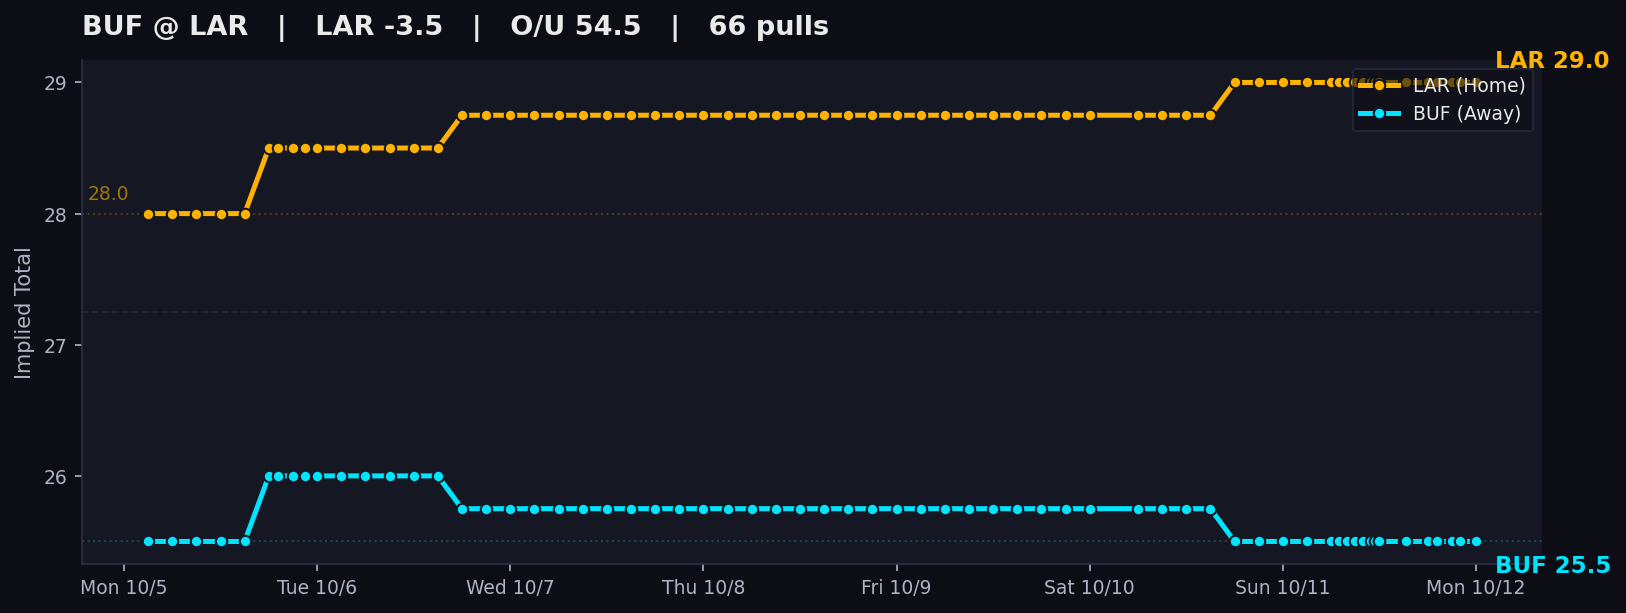
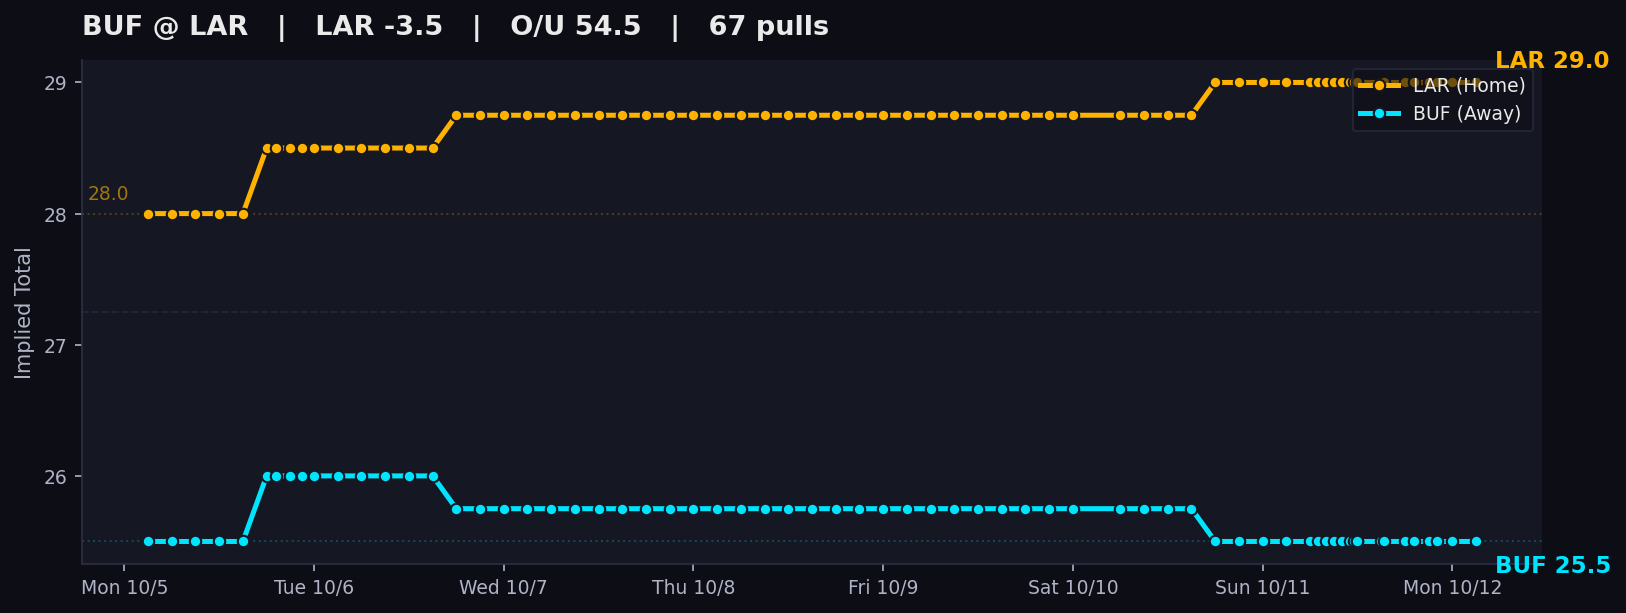
auto: local tracker sync

diff --git a/charts/index.html b/charts/index.html
@@ -311,7 +311,7 @@
     </div>
     <p class='sub'>
       DraftKings main lines &middot; Pinnacle cross-check &middot; Updated by the local Mac tracker<br>
-      Page rendered Mon Oct 12, 2026 12:00 AM CDT &middot; 1080 valid chart dots &middot; 1181 total pull attempts
+      Page rendered Mon Oct 12, 2026 3:00 AM CDT &middot; 1081 valid chart dots &middot; 1182 total pull attempts
       <span class='legend-box'>
         <span class='dot-teal'>● Away implied total</span>
         <span class='dot-amber'>● Home implied total</span>
@@ -324,9 +324,9 @@
     </details>
   </header>
 
-  <div id='feed-banner' class='alert-banner healthy' data-banner-kind='healthy' data-feed-ts='2026-10-12T05:00:01.580580+00:00' data-feed-ts-label='Mon Oct 12, 12:00 AM CDT'>
+  <div id='feed-banner' class='alert-banner healthy' data-banner-kind='healthy' data-feed-ts='2026-10-12T08:00:01.472347+00:00' data-feed-ts-label='Mon Oct 12, 3:00 AM CDT'>
             <span class='status-dot'></span>
-            <b>Feed Healthy:</b> All 1 open markets updated. 14 games have started and is showing its final verified pregame line. Board age based on oldest open market: <span id='feed-time'>Mon Oct 12, 12:00 AM CDT</span> (<span id='feed-age-dynamic'>just now</span>).
+            <b>Feed Healthy:</b> All 1 open markets updated. 14 games have started and is showing its final verified pregame line. Board age based on oldest open market: <span id='feed-time'>Mon Oct 12, 3:00 AM CDT</span> (<span id='feed-age-dynamic'>just now</span>).
         </div>
 
   <nav class='filter-bar' aria-label='Filter games by slate'>
@@ -396,7 +396,7 @@
                 <div><span>Last valid pull</span><strong>Thu 6:00 PM CT</strong></div>
                 <div><span>Chart dots</span><strong>69</strong></div>
             </div>
-                    <img class='expanded-chart' src='TB_DAL.png?v=1791781217' alt='TB at DAL line movement chart'>
+                    <img class='expanded-chart' src='TB_DAL.png?v=1791792018' alt='TB at DAL line movement chart'>
                     <p class='movement-note'>Total 47.5 → 49.5</p>
                 </div>
             </td>
@@ -437,7 +437,7 @@
                 <div><span>Last valid pull</span><strong>Sun 8:00 AM CT</strong></div>
                 <div><span>Chart dots</span><strong>71</strong></div>
             </div>
-                    <img class='expanded-chart' src='PHI_JAX.png?v=1791781217' alt='PHI at JAX line movement chart'>
+                    <img class='expanded-chart' src='PHI_JAX.png?v=1791792018' alt='PHI at JAX line movement chart'>
                     <p class='movement-note'>Spread JAX -3.0 → -7.5; Total 44.5 → 41.5</p>
                 </div>
             </td>
@@ -478,7 +478,7 @@
                 <div><span>Last valid pull</span><strong>Sun 12:00 PM CT</strong></div>
                 <div><span>Chart dots</span><strong>75</strong></div>
             </div>
-                    <img class='expanded-chart' src='CHI_GB.png?v=1791781217' alt='CHI at GB line movement chart'>
+                    <img class='expanded-chart' src='CHI_GB.png?v=1791792018' alt='CHI at GB line movement chart'>
                     <p class='movement-note'>Spread CHI +2.5 → -1.5; Total 45.5 → 46.5</p>
                 </div>
             </td>
@@ -513,7 +513,7 @@
                 <div><span>Last valid pull</span><strong>Sun 12:00 PM CT</strong></div>
                 <div><span>Chart dots</span><strong>64</strong></div>
             </div>
-                    <img class='expanded-chart' src='IND_PIT.png?v=1791781217' alt='IND at PIT line movement chart'>
+                    <img class='expanded-chart' src='IND_PIT.png?v=1791792018' alt='IND at PIT line movement chart'>
                     <p class='movement-note'>Spread PIT -2.5 → -3.0; Total 44.5 → 41.5</p>
                 </div>
             </td>
@@ -548,7 +548,7 @@
                 <div><span>Last valid pull</span><strong>Sun 12:00 PM CT</strong></div>
                 <div><span>Chart dots</span><strong>73</strong></div>
             </div>
-                    <img class='expanded-chart' src='MIN_NO.png?v=1791781217' alt='MIN at NO line movement chart'>
+                    <img class='expanded-chart' src='MIN_NO.png?v=1791792018' alt='MIN at NO line movement chart'>
                     <p class='movement-note'>Total 44.5 → 41.5</p>
                 </div>
             </td>
@@ -583,7 +583,7 @@
                 <div><span>Last valid pull</span><strong>Sun 12:00 PM CT</strong></div>
                 <div><span>Chart dots</span><strong>68</strong></div>
             </div>
-                    <img class='expanded-chart' src='NYG_WAS.png?v=1791781217' alt='NYG at WAS line movement chart'>
+                    <img class='expanded-chart' src='NYG_WAS.png?v=1791792018' alt='NYG at WAS line movement chart'>
                     <p class='movement-note'>Spread WAS -2.5 → -3.5; Total 43.5 → 41.5</p>
                 </div>
             </td>
@@ -618,7 +618,7 @@
                 <div><span>Last valid pull</span><strong>Sun 12:00 PM CT</strong></div>
                 <div><span>Chart dots</span><strong>75</strong></div>
             </div>
-                    <img class='expanded-chart' src='CIN_MIA.png?v=1791781217' alt='CIN at MIA line movement chart'>
+                    <img class='expanded-chart' src='CIN_MIA.png?v=1791792018' alt='CIN at MIA line movement chart'>
                     <p class='movement-note'>Spread CIN -8.5 → -7.0; Total 46.5 → 44.5</p>
                 </div>
             </td>
@@ -653,7 +653,7 @@
                 <div><span>Last valid pull</span><strong>Sun 12:00 PM CT</strong></div>
                 <div><span>Chart dots</span><strong>75</strong></div>
             </div>
-                    <img class='expanded-chart' src='HOU_TEN.png?v=1791781217' alt='HOU at TEN line movement chart'>
+                    <img class='expanded-chart' src='HOU_TEN.png?v=1791792018' alt='HOU at TEN line movement chart'>
                     <p class='movement-note'>Total 39.5 → 37.5</p>
                 </div>
             </td>
@@ -688,7 +688,7 @@
                 <div><span>Last valid pull</span><strong>Sun 12:00 PM CT</strong></div>
                 <div><span>Chart dots</span><strong>64</strong></div>
             </div>
-                    <img class='expanded-chart' src='CLE_NYJ.png?v=1791781217' alt='CLE at NYJ line movement chart'>
+                    <img class='expanded-chart' src='CLE_NYJ.png?v=1791792018' alt='CLE at NYJ line movement chart'>
                     <p class='movement-note'>Spread NYJ -1.5 → -2.5; Total 39.5 → 38.5</p>
                 </div>
             </td>
@@ -723,7 +723,7 @@
                 <div><span>Last valid pull</span><strong>Sun 12:00 PM CT</strong></div>
                 <div><span>Chart dots</span><strong>75</strong></div>
             </div>
-                    <img class='expanded-chart' src='LVR_NE.png?v=1791781217' alt='LVR at NE line movement chart'>
+                    <img class='expanded-chart' src='LVR_NE.png?v=1791792018' alt='LVR at NE line movement chart'>
                     <p class='movement-note'>Total 44.5 → 45.5</p>
                 </div>
             </td>
@@ -764,7 +764,7 @@
                 <div><span>Last valid pull</span><strong>Sun 3:20 PM CT</strong></div>
                 <div><span>Chart dots</span><strong>77</strong></div>
             </div>
-                    <img class='expanded-chart' src='DET_ARI.png?v=1791781217' alt='DET at ARI line movement chart'>
+                    <img class='expanded-chart' src='DET_ARI.png?v=1791792018' alt='DET at ARI line movement chart'>
                     <p class='movement-note'>Total 52.5 → 55.5</p>
                 </div>
             </td>
@@ -799,7 +799,7 @@
                 <div><span>Last valid pull</span><strong>Sun 3:20 PM CT</strong></div>
                 <div><span>Chart dots</span><strong>79</strong></div>
             </div>
-                    <img class='expanded-chart' src='SF_SEA.png?v=1791781217' alt='SF at SEA line movement chart'>
+                    <img class='expanded-chart' src='SF_SEA.png?v=1791792018' alt='SF at SEA line movement chart'>
                     <p class='movement-note'>Total 47.5 → 45.5</p>
                 </div>
             </td>
@@ -834,7 +834,7 @@
                 <div><span>Last valid pull</span><strong>Sun 3:00 PM CT</strong></div>
                 <div><span>Chart dots</span><strong>73</strong></div>
             </div>
-                    <img class='expanded-chart' src='DEN_LAC.png?v=1791781217' alt='DEN at LAC line movement chart'>
+                    <img class='expanded-chart' src='DEN_LAC.png?v=1791792018' alt='DEN at LAC line movement chart'>
                     <p class='movement-note'>Spread DEN -2.5 → -3.5; Total 43.5 → 42.5</p>
                 </div>
             </td>
@@ -875,7 +875,7 @@
                 <div><span>Last valid pull</span><strong>Sun 7:10 PM CT</strong></div>
                 <div><span>Chart dots</span><strong>76</strong></div>
             </div>
-                    <img class='expanded-chart' src='BAL_ATL.png?v=1791781217' alt='BAL at ATL line movement chart'>
+                    <img class='expanded-chart' src='BAL_ATL.png?v=1791792018' alt='BAL at ATL line movement chart'>
                     <p class='movement-note'>Spread ATL +6.0 → -3.5; Total 49.5 → 43.5</p>
                 </div>
             </td>
@@ -896,8 +896,8 @@
             <td class='it-away'>BUF 25.5</td>
             <td class='it-home'>LAR 29.0</td>
             <td class='reason' title='Spread LAR -2.5 → -3.5; Total 53.5 → 54.5'>Spread LAR -2.5 → -3.5; Total 53.5 → 54.5</td>
-            <td style='text-align:center;'><span class='pill-fresh'>12:00 AM CT</span></td>
-            <td class='snaps'>66</td>
+            <td style='text-align:center;'><span class='pill-fresh'>3:00 AM CT</span></td>
+            <td class='snaps'>67</td>
         </tr>
         <tr id='desktop-panel-BUF_LAR' class='chart-detail-row' data-slate='MNF' data-game-panel='BUF_LAR' hidden>
             <td colspan='12'>
@@ -913,10 +913,10 @@
                 <div><span>Current total</span><strong>54.5</strong></div>
                 <div><span>Away implied</span><strong class='it-away'>BUF 25.5</strong></div>
                 <div><span>Home implied</span><strong class='it-home'>LAR 29.0</strong></div>
-                <div><span>Last valid pull</span><strong>12:00 AM CT</strong></div>
-                <div><span>Chart dots</span><strong>66</strong></div>
+                <div><span>Last valid pull</span><strong>3:00 AM CT</strong></div>
+                <div><span>Chart dots</span><strong>67</strong></div>
             </div>
-                    <img class='expanded-chart' src='BUF_LAR.png?v=1791781217' alt='BUF at LAR line movement chart'>
+                    <img class='expanded-chart' src='BUF_LAR.png?v=1791792018' alt='BUF at LAR line movement chart'>
                     <p class='movement-note'>Spread LAR -2.5 → -3.5; Total 53.5 → 54.5</p>
                 </div>
             </td>
@@ -951,7 +951,7 @@
                 <div><span>Last valid pull</span><strong>Thu 6:00 PM CT</strong></div>
                 <div><span>Chart dots</span><strong>69</strong></div>
             </div>
-                <img class='expanded-chart' src='TB_DAL.png?v=1791781217' alt='TB at DAL line movement chart'>
+                <img class='expanded-chart' src='TB_DAL.png?v=1791792018' alt='TB at DAL line movement chart'>
                 <p class='pull-note'><span class='pull-dot'></span> Every dot is a valid completed pull · 69 chart dots</p>
             </div>
         </article><article class='mobile-game-card closed-game' data-slate='OTHER_PRIMETIME' data-game='PHI_JAX'>
@@ -978,7 +978,7 @@
                 <div><span>Last valid pull</span><strong>Sun 8:00 AM CT</strong></div>
                 <div><span>Chart dots</span><strong>71</strong></div>
             </div>
-                <img class='expanded-chart' src='PHI_JAX.png?v=1791781217' alt='PHI at JAX line movement chart'>
+                <img class='expanded-chart' src='PHI_JAX.png?v=1791792018' alt='PHI at JAX line movement chart'>
                 <p class='pull-note'><span class='pull-dot'></span> Every dot is a valid completed pull · 71 chart dots</p>
             </div>
         </article><article class='mobile-game-card closed-game' data-slate='SUN_EARLY' data-game='CHI_GB'>
@@ -1005,7 +1005,7 @@
                 <div><span>Last valid pull</span><strong>Sun 12:00 PM CT</strong></div>
                 <div><span>Chart dots</span><strong>75</strong></div>
             </div>
-                <img class='expanded-chart' src='CHI_GB.png?v=1791781217' alt='CHI at GB line movement chart'>
+                <img class='expanded-chart' src='CHI_GB.png?v=1791792018' alt='CHI at GB line movement chart'>
                 <p class='pull-note'><span class='pull-dot'></span> Every dot is a valid completed pull · 75 chart dots</p>
             </div>
         </article><article class='mobile-game-card closed-game' data-slate='SUN_EARLY' data-game='IND_PIT'>
@@ -1032,7 +1032,7 @@
                 <div><span>Last valid pull</span><strong>Sun 12:00 PM CT</strong></div>
                 <div><span>Chart dots</span><strong>64</strong></div>
             </div>
-                <img class='expanded-chart' src='IND_PIT.png?v=1791781217' alt='IND at PIT line movement chart'>
+                <img class='expanded-chart' src='IND_PIT.png?v=1791792018' alt='IND at PIT line movement chart'>
                 <p class='pull-note'><span class='pull-dot'></span> Every dot is a valid completed pull · 64 chart dots</p>
             </div>
         </article><article class='mobile-game-card closed-game' data-slate='SUN_EARLY' data-game='MIN_NO'>
@@ -1059,7 +1059,7 @@
                 <div><span>Last valid pull</span><strong>Sun 12:00 PM CT</strong></div>
                 <div><span>Chart dots</span><strong>73</strong></div>
             </div>
-                <img class='expanded-chart' src='MIN_NO.png?v=1791781217' alt='MIN at NO line movement chart'>
+                <img class='expanded-chart' src='MIN_NO.png?v=1791792018' alt='MIN at NO line movement chart'>
                 <p class='pull-note'><span class='pull-dot'></span> Every dot is a valid completed pull · 73 chart dots</p>
             </div>
         </article><article class='mobile-game-card closed-game' data-slate='SUN_EARLY' data-game='NYG_WAS'>
@@ -1086,7 +1086,7 @@
                 <div><span>Last valid pull</span><strong>Sun 12:00 PM CT</strong></div>
                 <div><span>Chart dots</span><strong>68</strong></div>
             </div>
-                <img class='expanded-chart' src='NYG_WAS.png?v=1791781217' alt='NYG at WAS line movement chart'>
+                <img class='expanded-chart' src='NYG_WAS.png?v=1791792018' alt='NYG at WAS line movement chart'>
                 <p class='pull-note'><span class='pull-dot'></span> Every dot is a valid completed pull · 68 chart dots</p>
             </div>
         </article><article class='mobile-game-card closed-game' data-slate='SUN_EARLY' data-game='CIN_MIA'>
@@ -1113,7 +1113,7 @@
                 <div><span>Last valid pull</span><strong>Sun 12:00 PM CT</strong></div>
                 <div><span>Chart dots</span><strong>75</strong></div>
             </div>
-                <img class='expanded-chart' src='CIN_MIA.png?v=1791781217' alt='CIN at MIA line movement chart'>
+                <img class='expanded-chart' src='CIN_MIA.png?v=1791792018' alt='CIN at MIA line movement chart'>
                 <p class='pull-note'><span class='pull-dot'></span> Every dot is a valid completed pull · 75 chart dots</p>
             </div>
         </article><article class='mobile-game-card closed-game' data-slate='SUN_EARLY' data-game='HOU_TEN'>
@@ -1140,7 +1140,7 @@
                 <div><span>Last valid pull</span><strong>Sun 12:00 PM CT</strong></div>
                 <div><span>Chart dots</span><strong>75</strong></div>
             </div>
-                <img class='expanded-chart' src='HOU_TEN.png?v=1791781217' alt='HOU at TEN line movement chart'>
+                <img class='expanded-chart' src='HOU_TEN.png?v=1791792018' alt='HOU at TEN line movement chart'>
                 <p class='pull-note'><span class='pull-dot'></span> Every dot is a valid completed pull · 75 chart dots</p>
             </div>
         </article><article class='mobile-game-card closed-game' data-slate='SUN_EARLY' data-game='CLE_NYJ'>
@@ -1167,7 +1167,7 @@
                 <div><span>Last valid pull</span><strong>Sun 12:00 PM CT</strong></div>
                 <div><span>Chart dots</span><strong>64</strong></div>
             </div>
-                <img class='expanded-chart' src='CLE_NYJ.png?v=1791781217' alt='CLE at NYJ line movement chart'>
+                <img class='expanded-chart' src='CLE_NYJ.png?v=1791792018' alt='CLE at NYJ line movement chart'>
                 <p class='pull-note'><span class='pull-dot'></span> Every dot is a valid completed pull · 64 chart dots</p>
             </div>
         </article><article class='mobile-game-card closed-game' data-slate='SUN_EARLY' data-game='LVR_NE'>
@@ -1194,7 +1194,7 @@
                 <div><span>Last valid pull</span><strong>Sun 12:00 PM CT</strong></div>
                 <div><span>Chart dots</span><strong>75</strong></div>
             </div>
-                <img class='expanded-chart' src='LVR_NE.png?v=1791781217' alt='LVR at NE line movement chart'>
+                <img class='expanded-chart' src='LVR_NE.png?v=1791792018' alt='LVR at NE line movement chart'>
                 <p class='pull-note'><span class='pull-dot'></span> Every dot is a valid completed pull · 75 chart dots</p>
             </div>
         </article><article class='mobile-game-card closed-game' data-slate='SUN_LATE' data-game='DET_ARI'>
@@ -1221,7 +1221,7 @@
                 <div><span>Last valid pull</span><strong>Sun 3:20 PM CT</strong></div>
                 <div><span>Chart dots</span><strong>77</strong></div>
             </div>
-                <img class='expanded-chart' src='DET_ARI.png?v=1791781217' alt='DET at ARI line movement chart'>
+                <img class='expanded-chart' src='DET_ARI.png?v=1791792018' alt='DET at ARI line movement chart'>
                 <p class='pull-note'><span class='pull-dot'></span> Every dot is a valid completed pull · 77 chart dots</p>
             </div>
         </article><article class='mobile-game-card closed-game' data-slate='SUN_LATE' data-game='SF_SEA'>
@@ -1248,7 +1248,7 @@
                 <div><span>Last valid pull</span><strong>Sun 3:20 PM CT</strong></div>
                 <div><span>Chart dots</span><strong>79</strong></div>
             </div>
-                <img class='expanded-chart' src='SF_SEA.png?v=1791781217' alt='SF at SEA line movement chart'>
+                <img class='expanded-chart' src='SF_SEA.png?v=1791792018' alt='SF at SEA line movement chart'>
                 <p class='pull-note'><span class='pull-dot'></span> Every dot is a valid completed pull · 79 chart dots</p>
             </div>
         </article><article class='mobile-game-card closed-game' data-slate='SUN_LATE' data-game='DEN_LAC'>
@@ -1275,7 +1275,7 @@
                 <div><span>Last valid pull</span><strong>Sun 3:00 PM CT</strong></div>
                 <div><span>Chart dots</span><strong>73</strong></div>
             </div>
-                <img class='expanded-chart' src='DEN_LAC.png?v=1791781217' alt='DEN at LAC line movement chart'>
+                <img class='expanded-chart' src='DEN_LAC.png?v=1791792018' alt='DEN at LAC line movement chart'>
                 <p class='pull-note'><span class='pull-dot'></span> Every dot is a valid completed pull · 73 chart dots</p>
             </div>
         </article><article class='mobile-game-card closed-game' data-slate='SNF' data-game='BAL_ATL'>
@@ -1302,7 +1302,7 @@
                 <div><span>Last valid pull</span><strong>Sun 7:10 PM CT</strong></div>
                 <div><span>Chart dots</span><strong>76</strong></div>
             </div>
-                <img class='expanded-chart' src='BAL_ATL.png?v=1791781217' alt='BAL at ATL line movement chart'>
+                <img class='expanded-chart' src='BAL_ATL.png?v=1791792018' alt='BAL at ATL line movement chart'>
                 <p class='pull-note'><span class='pull-dot'></span> Every dot is a valid completed pull · 76 chart dots</p>
             </div>
         </article><article class='mobile-game-card ' data-slate='MNF' data-game='BUF_LAR'>
@@ -1326,11 +1326,11 @@
                 <div><span>Current total</span><strong>54.5</strong></div>
                 <div><span>Away implied</span><strong class='it-away'>BUF 25.5</strong></div>
                 <div><span>Home implied</span><strong class='it-home'>LAR 29.0</strong></div>
-                <div><span>Last valid pull</span><strong>12:00 AM CT</strong></div>
-                <div><span>Chart dots</span><strong>66</strong></div>
+                <div><span>Last valid pull</span><strong>3:00 AM CT</strong></div>
+                <div><span>Chart dots</span><strong>67</strong></div>
             </div>
-                <img class='expanded-chart' src='BUF_LAR.png?v=1791781217' alt='BUF at LAR line movement chart'>
-                <p class='pull-note'><span class='pull-dot'></span> Every dot is a valid completed pull · 66 chart dots</p>
+                <img class='expanded-chart' src='BUF_LAR.png?v=1791792018' alt='BUF at LAR line movement chart'>
+                <p class='pull-note'><span class='pull-dot'></span> Every dot is a valid completed pull · 67 chart dots</p>
             </div>
         </article>
   </section>
